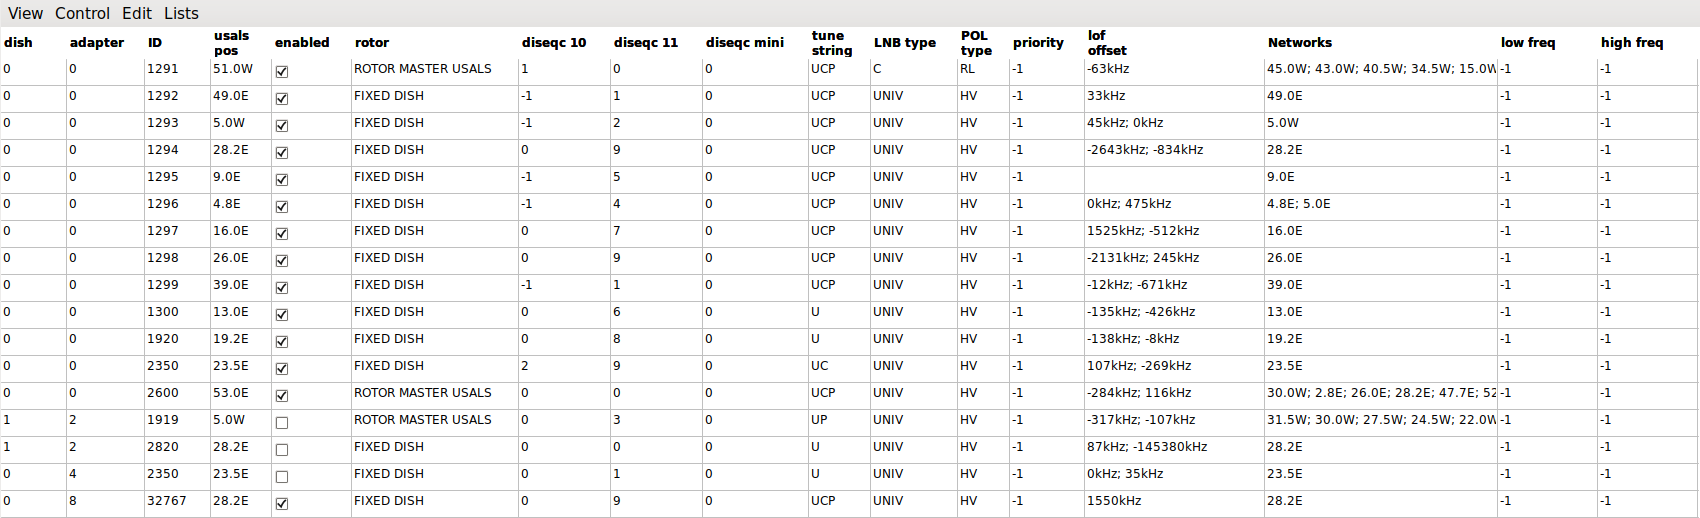
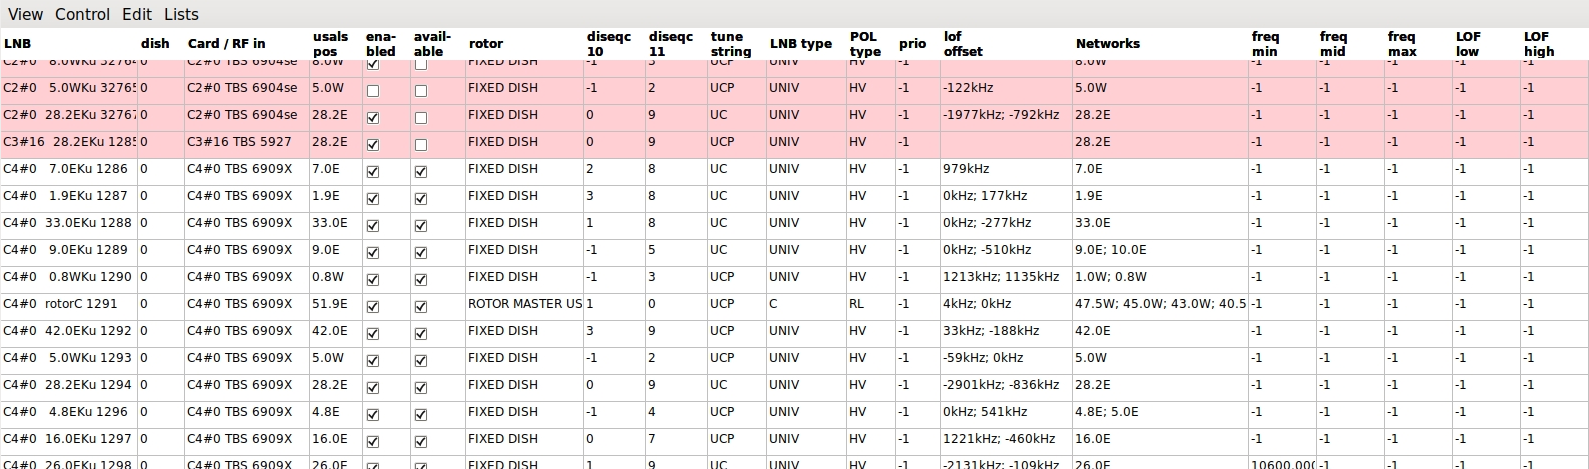
Update lnb list and lnb network list documentation

diff --git a/docs/lnbs.md b/docs/lnbs.md
@@ -1,4 +1,4 @@
-# neumoDVB #
+c# neumoDVB #
 ## Configuring LNBs ##
 
 The LNB configurations informs neumoDVB about your satellite equipment setup. neumoDVB allows for complicated
@@ -10,25 +10,30 @@ All of this can get quite complicated (with many potential bugs) and is mostly h
 configuration, which is a bit of a misnomer as such a configuration describes not only the LNB but also
 how it is connected to your adapters.
 
+
 ### Simple LNB setup ###
 
 In simple satellite setups, adding an LNB entry is easy:
 
-First activate the LNB screen by selecting `LNBs` in the list menu. This screen will still be empty.
+First visit the LNB screen by selecting `LNBs` in the list menu. This screen will still be empty.
 Selecting `New` from the `Edit` menu will add one line to the table, which you will then need to edit.
-![screenshot](images/lnb_List.png)
+![screenshot](images/lnb_list.png)
 
-Two fields are crucial (`edit mode` needs to be on to change them):
+The following fields are crucial (`edit mode` needs to be on to change them):
 
-* `adapter` should be set to the number of the adapter (the `X' in `/dev/dvb/adapterX`)
-* `usals position` should be set to the location of the satellite, in one of the following formats:
-"28.2E", "5.0W,"  "-5.0" or "28.2."
+* `Card / RF In` should be set to the card and the RF INput of this card to which the LNB is connected.
+  `RF Input` is the number of the connector on the card. The numberings usually starts frrom 0,
+   with 0 corresponding to the first connector, 1 with the second... The numbering is determined
+   by the driver and it may vary
+* `usals position` should be set to the location of the satellite to which the LNB points, in one of the
+  following formats: "28.2E", "5.0W,"  "-5.0" or "28.2."
 
-As soon as you exit this screen, the new LNB will be saved. Behind the scenes, also a network will be created
-(see below). This network will be for the position specified by `usals position`.
+  As soon as you exit this screen, the new LNB will be saved. Behind the scenes, also a network will be created
+  (see below). This network will be for the position specified by `usals position`.
 
-If the selected adapter connects to an LNB indirectly, i.e., via one or more DiSEqC switches, you also need
-to enter valid DiSEqC settings:
+  If the selected adapter connects to an LNB indirectly, i.e., via one or more DiSEqC switches, you also need
+  to enter valid DiSEqC settings:
+
 * `diseqc10`: the port number of the committed switch.  The first port on a switch is always named `0`, so for
 diseqc10, the valid values are 0, 1, 2 and 3; -1 means "not present".
 * `diseqc11`: the port number for the uncommitted switch. Valid values are  0...15. -1 means "not present".
@@ -47,45 +52,60 @@ operation:
     will send both switch commands twice. This is rarely needed, and neumoDVB will resend the commands anyway
     if tuning fails.
 
-    If you need dieqc12 instead of usals (not recommended: usals is much easier and more versatile), then change this
-    to `UCX`. Note that for diseqc12 the usals position will also be set in the GUI, but it will not be sent to
-    the positioner. This 'virtual' usals value is used by neumoDVB to remember the current position of the dish.
-
+    If you need dieqc12 instead of usals (not recommended: usals is much easier and more versatile), then
+    change this to `UCX`. Note that for diseqc12 the usals position will also be set in the GUI, but it
+    will not be sent to the positioner. This 'virtual' usals value is used by neumoDVB to remember the
+    current position of the dish.
 
 
 ### Advanced LNB setup ###
 
-You may need to edit the following fields for more complex setups
+You may need to edit the other fields for more complex setups. Also, the LNB list contains other fields,
+and it may be useful to understand their meaning
 
-* `dish`. If you have multiple dishes give them each a different number. This allows e.g., using
-LNBs aimed at the same satellite  on multiple dishes
-* `ID`. This is auto-generated. Do not edit.
-* `rotor`. If you have a dish on a positioner, set this to `ROTOR_MASTER_USALS` (recommended) or
-`ROTOR_MASTER_DIEQC12`. This will cause the receiver to start sending DiSEqC commands to rotate the dish.
-In this case, you also need define the list of networks (satellites), that the positioner is allowed to move to
-(See below).
+* `LNB`. This is an auto-generated descriptive name for the LNB. For instance "C4#0 7.0EKu 1286" means
+  that the LNB is connected to RF input 0 of card 4 and is pointing at 7.0E. The LNB is a universal LLNB (Ku)
+  The last number is a unique ID. In case the LNB is on a rotating dish, the satellite position will be replaced
+  by `rotor`
+* `dish`. **Editable** If you have multiple dishes give them each a different number. This allows e.g., using
+  LNBs aimed at the same satellite  on multiple dishes. Setting this number correctly is also essential
+  in case of a moveable this: neumoDVB assumes that all LNBs on the same dish will move if the dish is
+  moved. If the dish numbers differ, neumoDVB will assume that the LNBs are on different dishes
+* `enabled`. **Editable** To prevent neumoDVB from using an LNB, unckech this box.
+* `available`. **Editable** This field will be unchecked if the LNB cannot be used now, e.g., because
+  the card is  not in the system, or for some other reason. If the LNB is not available, the background
+  is shown in red.
+* `rotor`. **Editable** If you have a dish on a positioner, set this to `ROTOR_MASTER_USALS` (recommended) or
+  `ROTOR_MASTER_DIEQC12`. This will cause the receiver to start sending DiSEqC commands to rotate the dish.
+  In this case, you also need define the list of networks (satellites), that the positioner is allowed to
+  move to (See below).
 
-    The value `ROTOR_SLAVE` means that the LNB is attached to a movable dish, but cannot be used
-    to actually move the dish. neumoDVB will use this LNB only if it determines that the dish is already pointing
-    in the right direction.
-
-
-* `lnb type`. Change this in case of a C-band lnb. Currently it is not possible to change local oscillator frequencies.
+  The value `ROTOR_SLAVE` means that the LNB is attached to a movable dish, but cannot be used to actually
+  move the dish. neumoDVB will use this LNB only if it determines that the dish is already pointing
+  in the right direction.
+* `lnb type`. **Editable** Change this in case of a C-band or Ka band lnb.
 * `pol type`. HV for a regular linear LNB, LR for a regular circular one. The other options indicate LNBs with
-  swapped polarisations. E.g., a linar LNB rotated by 90 degrees or a circular one in which the depolarising plate
-  is rotated by 90 degrees.
-* `priority`. Change this to give preference to some LNBs when multiple ones can tune to the same satellite. LNBs
-  with higher values are used preferentially
+  swapped polarisations. E.g., a linar LNB rotated by 90 degrees or a circular one in which the depolarising
+  plate is rotated by 90 degrees.
+* `prio`. **Editable** Change this to give preference to some LNBs when multiple ones can tune to the same
+  satellite. LNBs with higher values are used preferentially
 * `lof_offset`. This is a read-only field. Afte rusing an LNB for a while, it will indicate any offset in the
 LNBs local oscillator (the two numbers are for the low and high band, respectively)
-* `Networks`. Clicking on this field will popup a window, which lists all the networks that an LNB
-can tune to
-* `start freq`. This sets the lowest possible frequency the LNB can tune to. The special value -1 means that this
-  is set to the default value for this lnb type, e.g., 10.7 Ghz for a universal LNB.
-* `end freq`. This sets the highest possible frequency the LNB can tune to. The special value -1 means that this
-  is set to the default value for this lnb type, e.g., 12.75 Ghz for a universal LNB.
+* `Networks`. **Editable** Clicking on this field will popup a window, which lists all the networks that an LNB
+  can tune to
+* `freq min`. **Editable** This sets the lowest possible frequency the LNB can tune to. The special value
+  -1 means that this is set to the default value for this lnb type, e.g., 10.7 Ghz for a universal LNB.
+* `freq mid`. **Editable** This sets the frequency which separates the low from the high band on the LNB
+  The special value -1 means that this is set to the default value for this lnb type, e.g., 10.7 Ghz for
+  a universal LNB. For LNBs with only one band, set this value equal to `freq max`.
+* `freq max`. **Editable**  This sets the highest possible frequency the LNB can tune to. The special value
+  -1 means that this is set to the default value for this lnb type, e.g., 12.75 Ghz for a universal LNB.
+* `LOF low`. **Editable** This sets the local oscillator frequency for the low band on the LNB. The special
+  value  -1 means that this is set to the default value for this lnb type.
+* `LOF high`. **Editable**  This sets the local oscillator frequency for the high band on the LNB. The
+  special value  -1 means that this is set to the default value for this lnb type.
 
-The screenshot below shows the networks for a movable dish which is allowed to move to 6 different satellite
+The screenshot below shows the networks for a movable dish which is allowed to move to many different satellite
 positions. In this table, you can add new lines (`Edit - New`) or edit existing Lines (activate `Edit mode`
 if needed):
 
@@ -93,29 +113,30 @@ if needed):
 
 The fields have the following meaning:
 
-* `LNB Pos.`: The official satellite position into this field.  This is the position as listed on satellite
-websites, and -- more importantly -- as listed in the service information in the satellite muxes.
+* `LNB Pos.` The official satellite position into this field.  This is the position as listed on satellite
+  websites, and -- more importantly -- as listed in the service information in the satellite muxes.
 
-    Some satellites
-    broadcast unexpected values. e.g., 51.5E may report muxes on 52.0E or 53.0E. neumoDVB considers these positions
-    correct. This can be confusing, e.g., if you expect services to be present in a list for 52.0E but they are
-    instead on 53.0E. neumoDVB always considers the values in the SI stream to e the true ones, as long as the
-    deviation is less than 1 degree.
-
+  Some satellites broadcast unexpected values. e.g., 51.5E may report muxes on 52.0E or 53.0E. neumoDVB
+  considers these positions correct. This can be confusing, e.g., if you expect services to be present
+  in a list for 52.0E but they are instead on 53.0E. neumoDVB always considers the values in the SI stream
+  to e the true ones, as long as the deviation is less than 1 degree.
+* `priority` In case multiple LNBs point to the same satellite, neumoDVB will use the one which has the '
+  correct network and has the highest priority
 * `Usals pos:` The actual position you wish to move the dish to. For instance, for difficult
-satellites you may get a better signal by moving to a slightly different position that the official one.
-If your dish setup is imperfect, you may also need an usals position different from the true satellite location.
+  satellites you may get a better signal by moving to a slightly different position that the official one.
+  If your dish setup is imperfect, you may also need an usals position different from the true satellite
+  location.
 
-    Entering a "wrong" `Usals pos.` is also useful for other
-    purposes. For instance, you could enter "10.0E" as the Usals. pos. for both the satellites 9.0E  and 10.0E. The
-    dish will then remain at 10.0E if you tune to a service on 9.0E, reducing wear and tear if you switch
-    frequently between both satellites.
+  Entering a "wrong" `Usals pos.` is also useful for other purposes. For instance, you could enter "10.0E"
+  as the Usals. pos. for both the satellites 9.0E  and 10.0E. The dish will then remain at 10.0E if you tune
+  to a service on 9.0E, reducing wear and tear if you switch
+  frequently between both satellites.
 
-    Such a "wrong" setting is also needed for `ROTOR_SLAVE` LNBs. The usals position to enter is the one for the dish,
-    not the one for the slave LNB.
+  Such a "wrong" setting is also needed for `ROTOR_SLAVE` LNBs. The usals position to enter is the one for
+  the dish, not the one for the slave LNB.
 
-* `diseqc 1.2`: The diseqc command to send to move the dish, if you do not use usals. -1 means that no such command
-  ill be sent. Avoid diseqc 1.2 if possible. Usals is much simpler and much more convenient.
+* `diseqc 1.2`: The diseqc command to send to move the dish, in case you do not use usals. -1 means that no
+  such command will be sent. Avoid diseqc 1.2 if possible. Usals is much simpler and much more convenient.
 
-* `ref mux`. This is a readonly field. It is set by the positioner dialog and it is the default mux, which will be
-selected in that dialog.
+* `ref mux`. This is a readonly field. It is set by the positioner dialog and it is the default mux, which
+  will be selected in that dialog.
